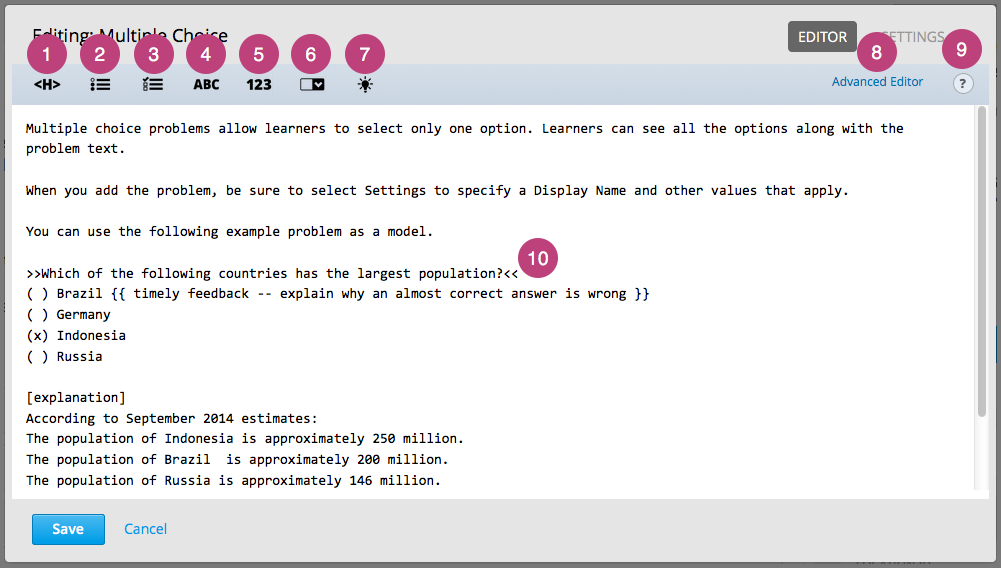
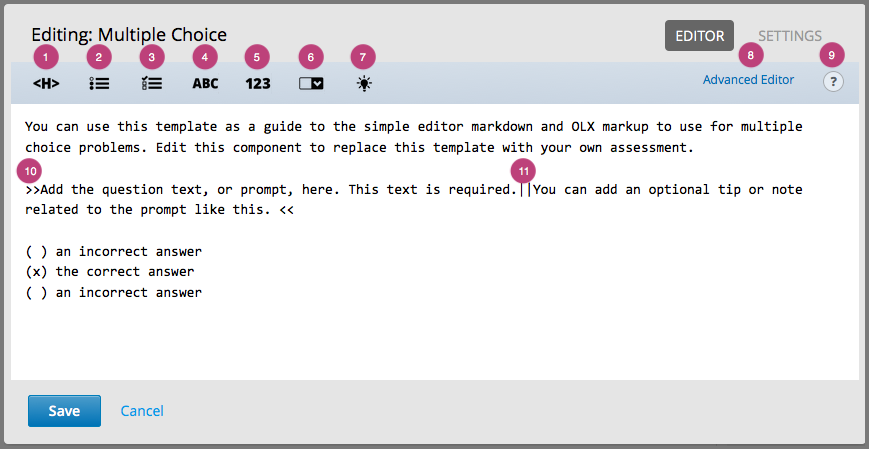
Adds example of multiple questions with separator

Changed region(s): [[0.0, 0.0, 1.0, 1.0]]

diff --git a/en_us/shared/course_components/create_problem.rst b/en_us/shared/course_components/create_problem.rst
@@ -98,10 +98,8 @@ The Simple Editor
 ==================
 
 When you edit one of the :ref:`common problem types<Adding a Problem>`, the
-simple editor opens with an example problem that you can use as a template for
-adding Markdown formatting.
-
-.. ...with a template that...^
+simple editor opens with a template that you can use as a guideline for
+adding Markdown formatting. The following templates are available.
 
 *  :ref:`Checkbox` and Checkboxes with Hints and Feedback
 
@@ -113,19 +111,18 @@ adding Markdown formatting.
 
 *  :ref:`Text Input` and Text Input with Hints and Feedback
 
-Blank common problems do not provide an example problem, but they also open in
-the simple editor by default.
+Blank common problems also open in the simple editor but they do not provide a
+template.
 
-==========================
 Adding Markdown Formatting
-==========================
+***************************
 
-The following image shows a multiple choice problem in the simple
+The following image shows the multiple choice template in the simple
 editor.
 
 .. image:: ../../../shared/images/MultipleChoice_SimpleEditor.png
- :alt: An example multiple choice problem in the simple editor, with numbered
-   callouts for each formatting option.
+ :alt: A template of required formatting for multiple choice problems, with
+     numbered callouts for each formatting option.
  :width: 600
 
 The simple editor includes a toolbar with options that provide the required
@@ -158,38 +155,29 @@ follow.
    line.
 
 #. **Dropdown**: Identifies a comma-separated list of values as the set of
-   answer options for a dropdown problem by adding two pairs of brackets (``[[
-   ]]``) around the list. To identify the correct answer option, you add
+   answer options for a dropdown problem by adding two pairs of brackets
+   (``[[ ]]``) around the list. To identify the correct answer option, you add
    parentheses (``( )``) around that option.
 
-#. **Explanation**: Identifies the explanation for the
-   correct answer by adding an ``[explanation]`` tag to the lines before and
-   after the text. An explanation appears only after learners select **Show
-   Answer**. You define when the **Show Answer** option is available to
-   learners by using the :ref:`Show Answer` setting.
+#. **Explanation**: Identifies the explanation for the correct answer by adding
+   an ``[explanation]`` tag to the lines before and after the text. The
+   explanation appears only after learners select **Show Answer**. You define
+   when the **Show Answer** option is available to learners by using the
+   :ref:`Show Answer` setting.
 
 #. **Advanced Editor** link: Opens the problem in the :ref:`advanced
    editor<Advanced Editor>`, which shows the OLX markup for the problem.
 
-#. **Question Mark** icon: Opens a list of formatting hints.
+#. **Toggle Cheatsheet**: Opens a list of formatting hints.
 
-#. **Accessible Label**: Identifies the prompt, or question, that learners need
+#. **Question or Prompt**: Identifies the question that learners need
    to answer. The toolbar does not have an option that provides this
    formatting, so you add two pairs of inward-pointing angle brackets (``>>
    <<``) around the question text. For example, ``>>Is this the question?<<``.
 
-.. Optionally, you can add guidance that helps learners answer the question as
-   part of the accessible label. For example, when you add a checkbox problem
-   that is only correct when learners select three of the answer options, you
-   might include the tip "Be sure to select all that apply." To add this
-   description, you include it after the question within the angle brackets,
-   and then you separate the question and the description by inserting a pair
-   of pipe symbols (``||``) between them. For example, ``>>Which of the
-   following choices is correct? ||Be sure to select all that apply.<<``.
-
-   * Screen readers read all of the text that you supply for the problem, and
-     then repeat the text that is identified as the accessible label
-     immediately before reading the answer choices for the problem.
+   * You must identify a question or prompt in every problem component. In
+     problems that include :ref:`multiple questions<Multiple Problems in One
+     Component>`, you must identify each one.
 
    * The :ref:`Student_Answer_Distribution` report uses the text with this
      formatting to identify each problem.
@@ -197,16 +185,40 @@ follow.
    * Insights also uses the text with this formatting to identify each problem.
      For more information, see `Using edX Insights`_.
 
-When you enter text, note that the simple editor cannot interpret certain
-symbol characters correctly. These symbols are reserved HTML characters:
-greater than (>), less than (<), and ampersand (&). If you enter text that
-includes these characters, the simple editor cannot save your edits. To resolve
-this problem, replace these characters in your problem text with the HTML
-entities that represent them.
+#. **Description**: Identifies optional guidance that helps learners answer the
+   question. For example, when you add a checkbox problem that is only correct
+   when learners select three of the answer options, you might include the
+   description, "Be sure to select all that apply." The toolbar does not have
+   an option that provides this formatting, so you add it after the question
+   within the angle brackets, and then you separate the question and the
+   description by inserting a pair of pipe symbols (``||``) between them. For
+   example, ``>>Which of the following choices is correct? ||Be sure to select
+   all that apply.<<``.
+
+Adding Text, Symbols, and Mathematics
+**************************************
+
+You can also add text, without formatting, to a problem. Note that screen
+readers read all of the text that you supply for the problem, and then repeat
+the text that is identified as the question or prompt immediately before
+reading the answer choices for the problem. For problems that require
+descriptions or other text, you might consider adding an HTML component for the
+text immediately before the problem component.
+
+When you enter unformatted text, note that the simple editor cannot interpret
+certain symbol characters correctly. These symbols are reserved HTML
+characters: greater than (>), less than (<), and ampersand (&). If you enter
+text that includes these characters, the simple editor cannot save your edits.
+To resolve this problem, replace these characters in your problem text with the
+HTML entities that represent them.
 
 * To enter >, type ``&gt;``.
 * To enter <, type ``&lt;``.
 * To enter &, type ``&amp;``.
+
+To add mathematics, you can use LaTeX, MathML, or AsciiMath notation. Studio
+uses MathJax to render equations. For more information, see :ref:`MathJax in
+Studio`.
 
 .. _Advanced Editor:
 
@@ -586,7 +598,7 @@ that you define, including the display name and whether to show the **Reset**
 button, apply to all of the questions in that component. The answers to all of
 the questions are submitted when learners select **Check**, and the correct
 answers for all of the questions appear when learners select **Show Answer**.
-By default, learners receive one point for each question they answer correcty.
+By default, learners receive one point for each question they answer correctly.
 For more information about changing the default problem weight and other
 settings, see :ref:`Problem Settings`.
 
@@ -602,10 +614,24 @@ To design an assignment that includes several questions, you add one problem
 component and then edit it to add every question and its answer options, one
 after the other, in that component. Be sure to identify the text of every
 question or prompt with the appropriate Markdown formatting (``>> <<``) or OLX
-tag, and include all of the other required elements for
-each question you include.
+``<label>`` element, and include all of the other required elements
+for each question.
 
-.. ``<label></label>`` insert after OLX above
+* In the simple editor, you use three hyphen characters (``---``) on a new line
+  to separate one question and its answer options from the next.
+
+* In the advanced editor, each question and its answer options are enclosed by
+  the element that identifies the type of problem, such as
+  ``<multiplechoiceresponse>`` for a multiple choice question or
+  ``<formularesponse>`` for a math expression input question.
+
+* You can provide a different explanation for each question with the
+  appropriate Markdown formatting (``[explanation]``) or OLX ``<solution>``
+  element.
+
+As a best practice, edX recommends that you avoid including unformatted
+paragraph text between the questions. Screen readers can skip over text that is
+inserted among multiple questions.
 
 The questions that you include can all be of the same problem type, such as a
 series of text input questions, or you can include questions that use different
@@ -616,34 +642,58 @@ problem types, such as both numerical input and math expression input.
   contains more than one question. Each custom JavaScript problem must be in
   its own component.
 
-.. An example of a problem component with two text input questions follows. In the
-.. simple editor, the problem has the following Markdown formatting.
+An example of a problem component that includes a text input question and a
+numerical input question follows. In the simple editor, the problem has the
+following Markdown formatting.
 
-.. ::
+::
 
-..  >>Who invented the Caesar salad?||Be sure to check your spelling.<<
+  >>Who invented the Caesar salad?||Be sure to check your spelling.<<
+  = Caesar Cardini
+  [explanation]
+  Caesar Cardini is credited with inventing this salad and received a U.S. trademark for his salad dressing recipe.
+  [explanation]
+  ---
+  >>In what year?<<
+  = 1924
+  [explanation]
+  Cardini invented the dish at his restaurant on 4 July 1924 after the rush of holiday business left the kitchen with fewer supplies than usual.
+  [explanation]
 
-..  = Caesar Cardini
+That is, you include three hyphen characters (``---``) on a new line to
+separate the problems.
 
-..  >>In what year?<<
+In the advanced editor, the problem has the following OLX markup.
 
-..  = 1924
+.. code-block:: xml
 
-.. In the advanced editor, the problem has the following OLX markup.
+  <problem>
+    <stringresponse answer="Caesar Cardini" type="ci">
+      <label>Who invented the Caesar salad?</label>
+      <description>Be sure to check your spelling.</description>
+      <textline size="20"/>
+      <solution>
+        <div class="detailed-solution">
+          <p>Explanation</p>
+          <p>Caesar Cardini is credited with inventing this salad and received
+           a U.S. trademark for his salad dressing recipe.</p>
+        </div>
+      </solution>
+    </stringresponse>
 
-.. ::
-
-..   <problem>
-..   <stringresponse answer="Caesar Cardini">
-..   <label>Who invented the Caesar salad?</label>
-..   <description>Be sure to check your spelling.</description>
-..   </stringresponse>
-..   <numericalresponse answer="1924">
-..   <label>In what year?</label>
-..   </numericalresponse>
-..   </problem>
-
-.. ^^placeholder, need to verify in the sandbox. - Alison 4 Aug 2016
+    <numericalresponse answer="1924">
+      <label>In what year?</label>
+      <formulaequationinput/>
+      <solution>
+        <div class="detailed-solution">
+          <p>Explanation</p>
+          <p>Cardini invented the dish at his restaurant on 4 July 1924 after
+           the rush of holiday business left the kitchen with fewer supplies
+           than usual.</p>
+        </div>
+      </solution>
+    </numericalresponse>
+  </problem>
 
 .. include:: ../../../shared/exercises_tools/Section_adding_hints.rst
 
